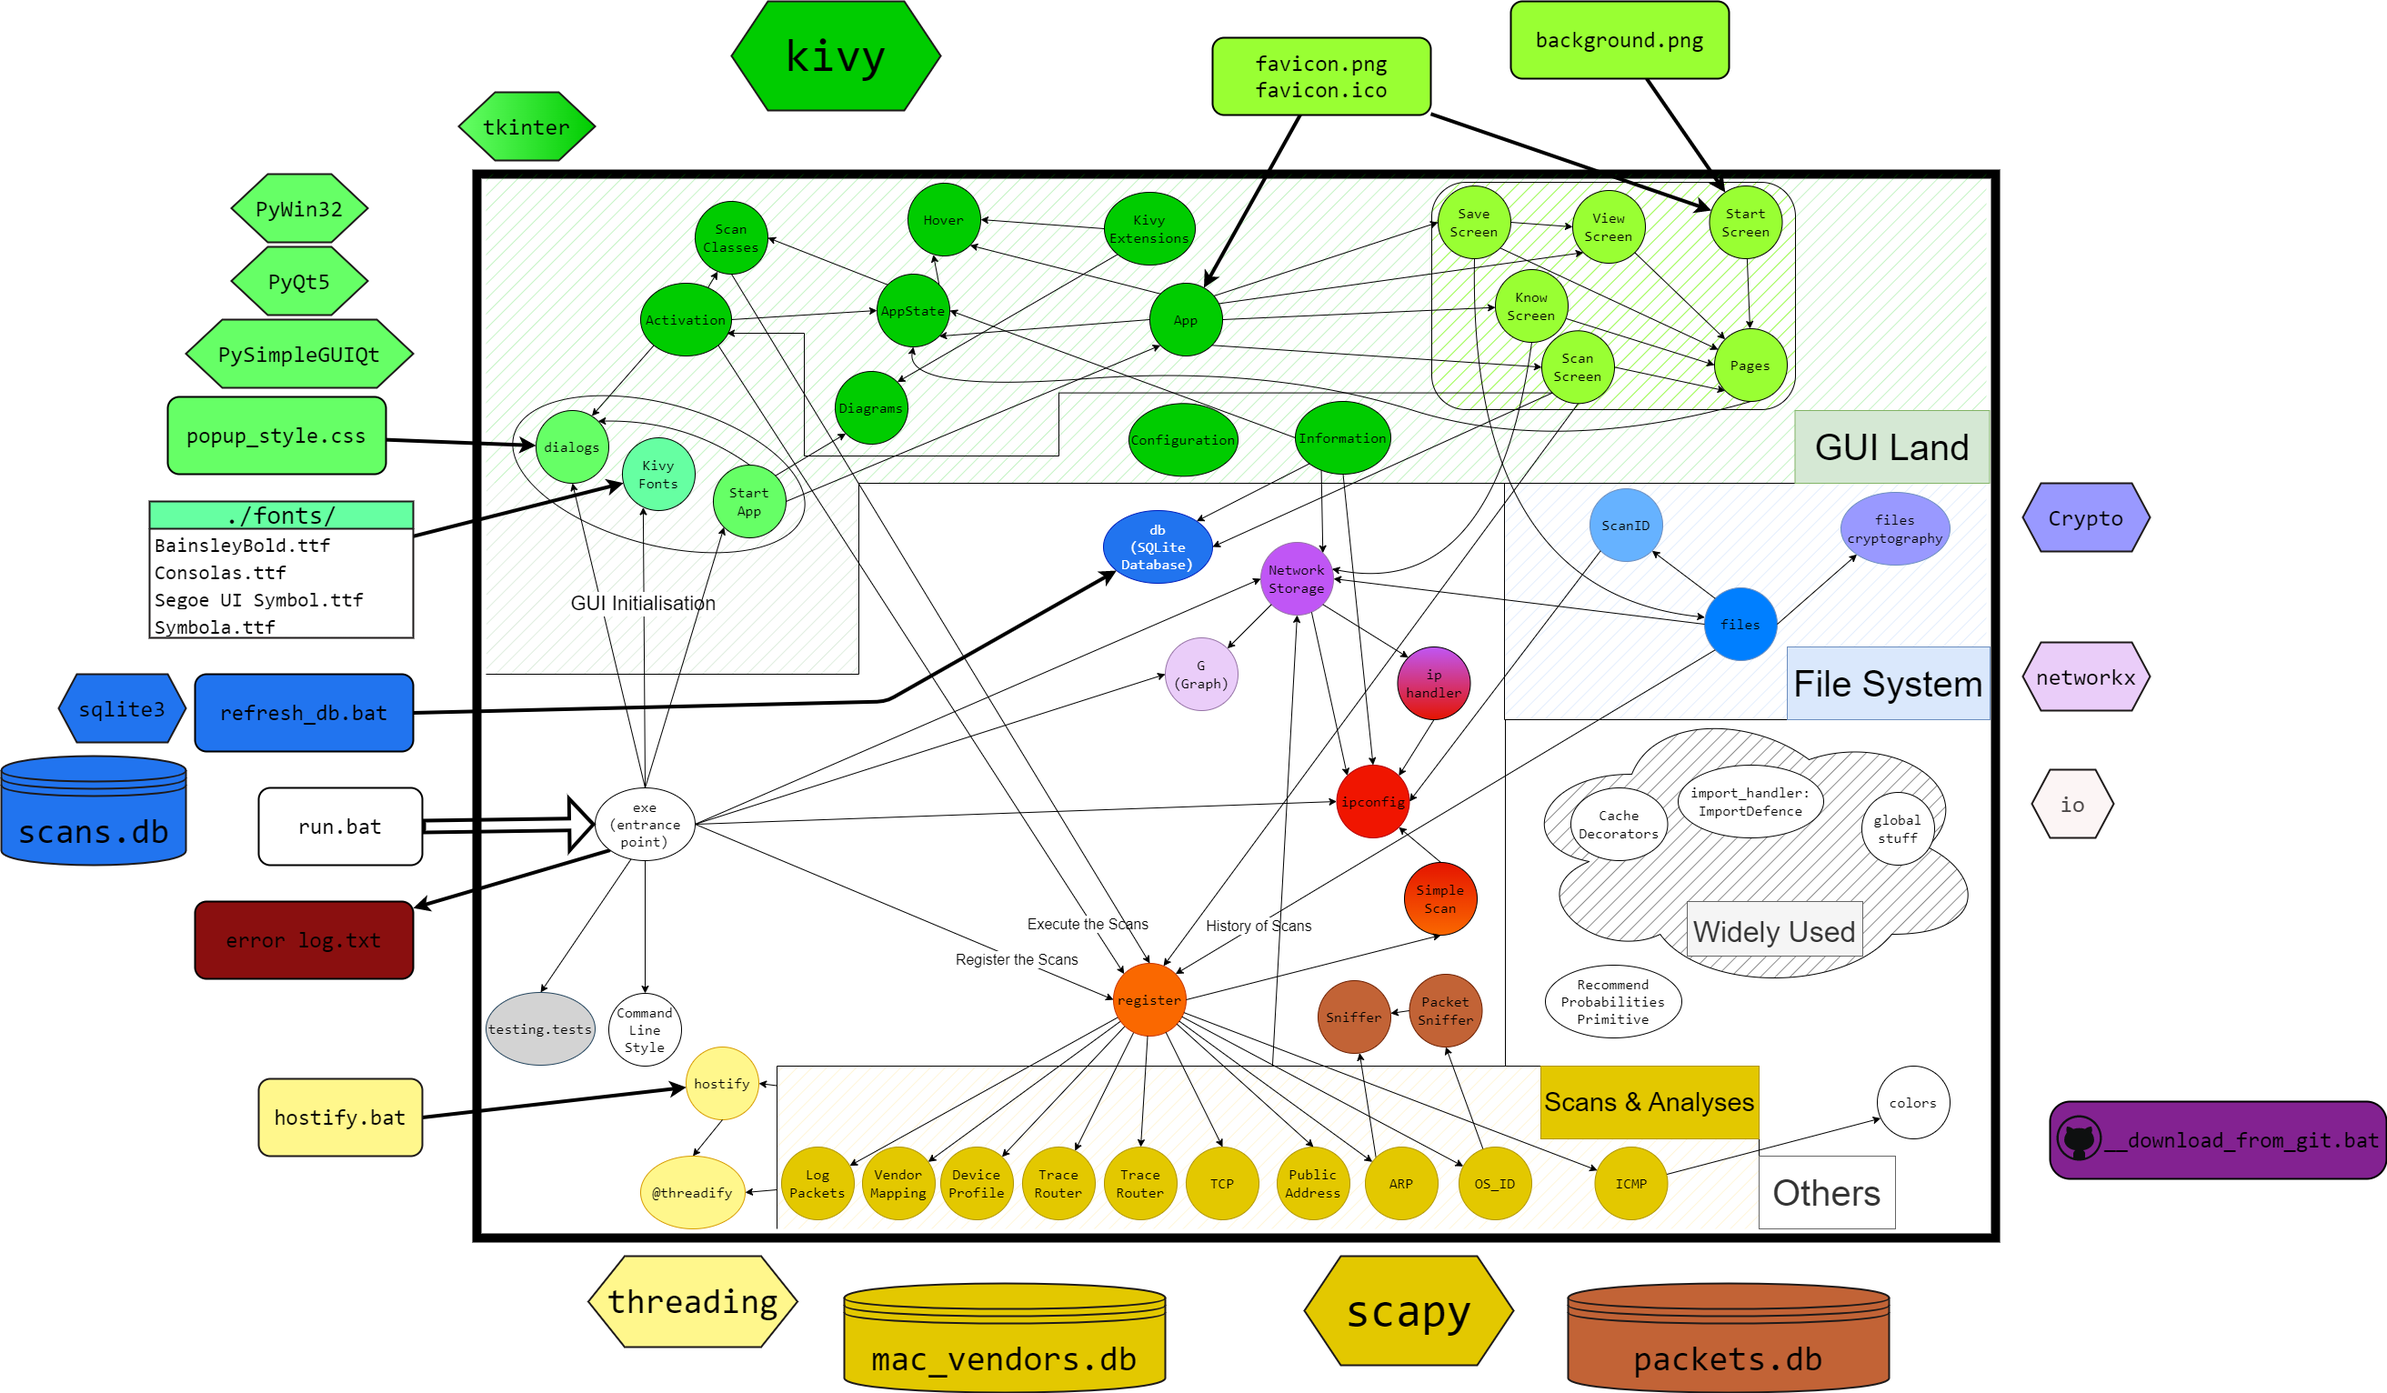
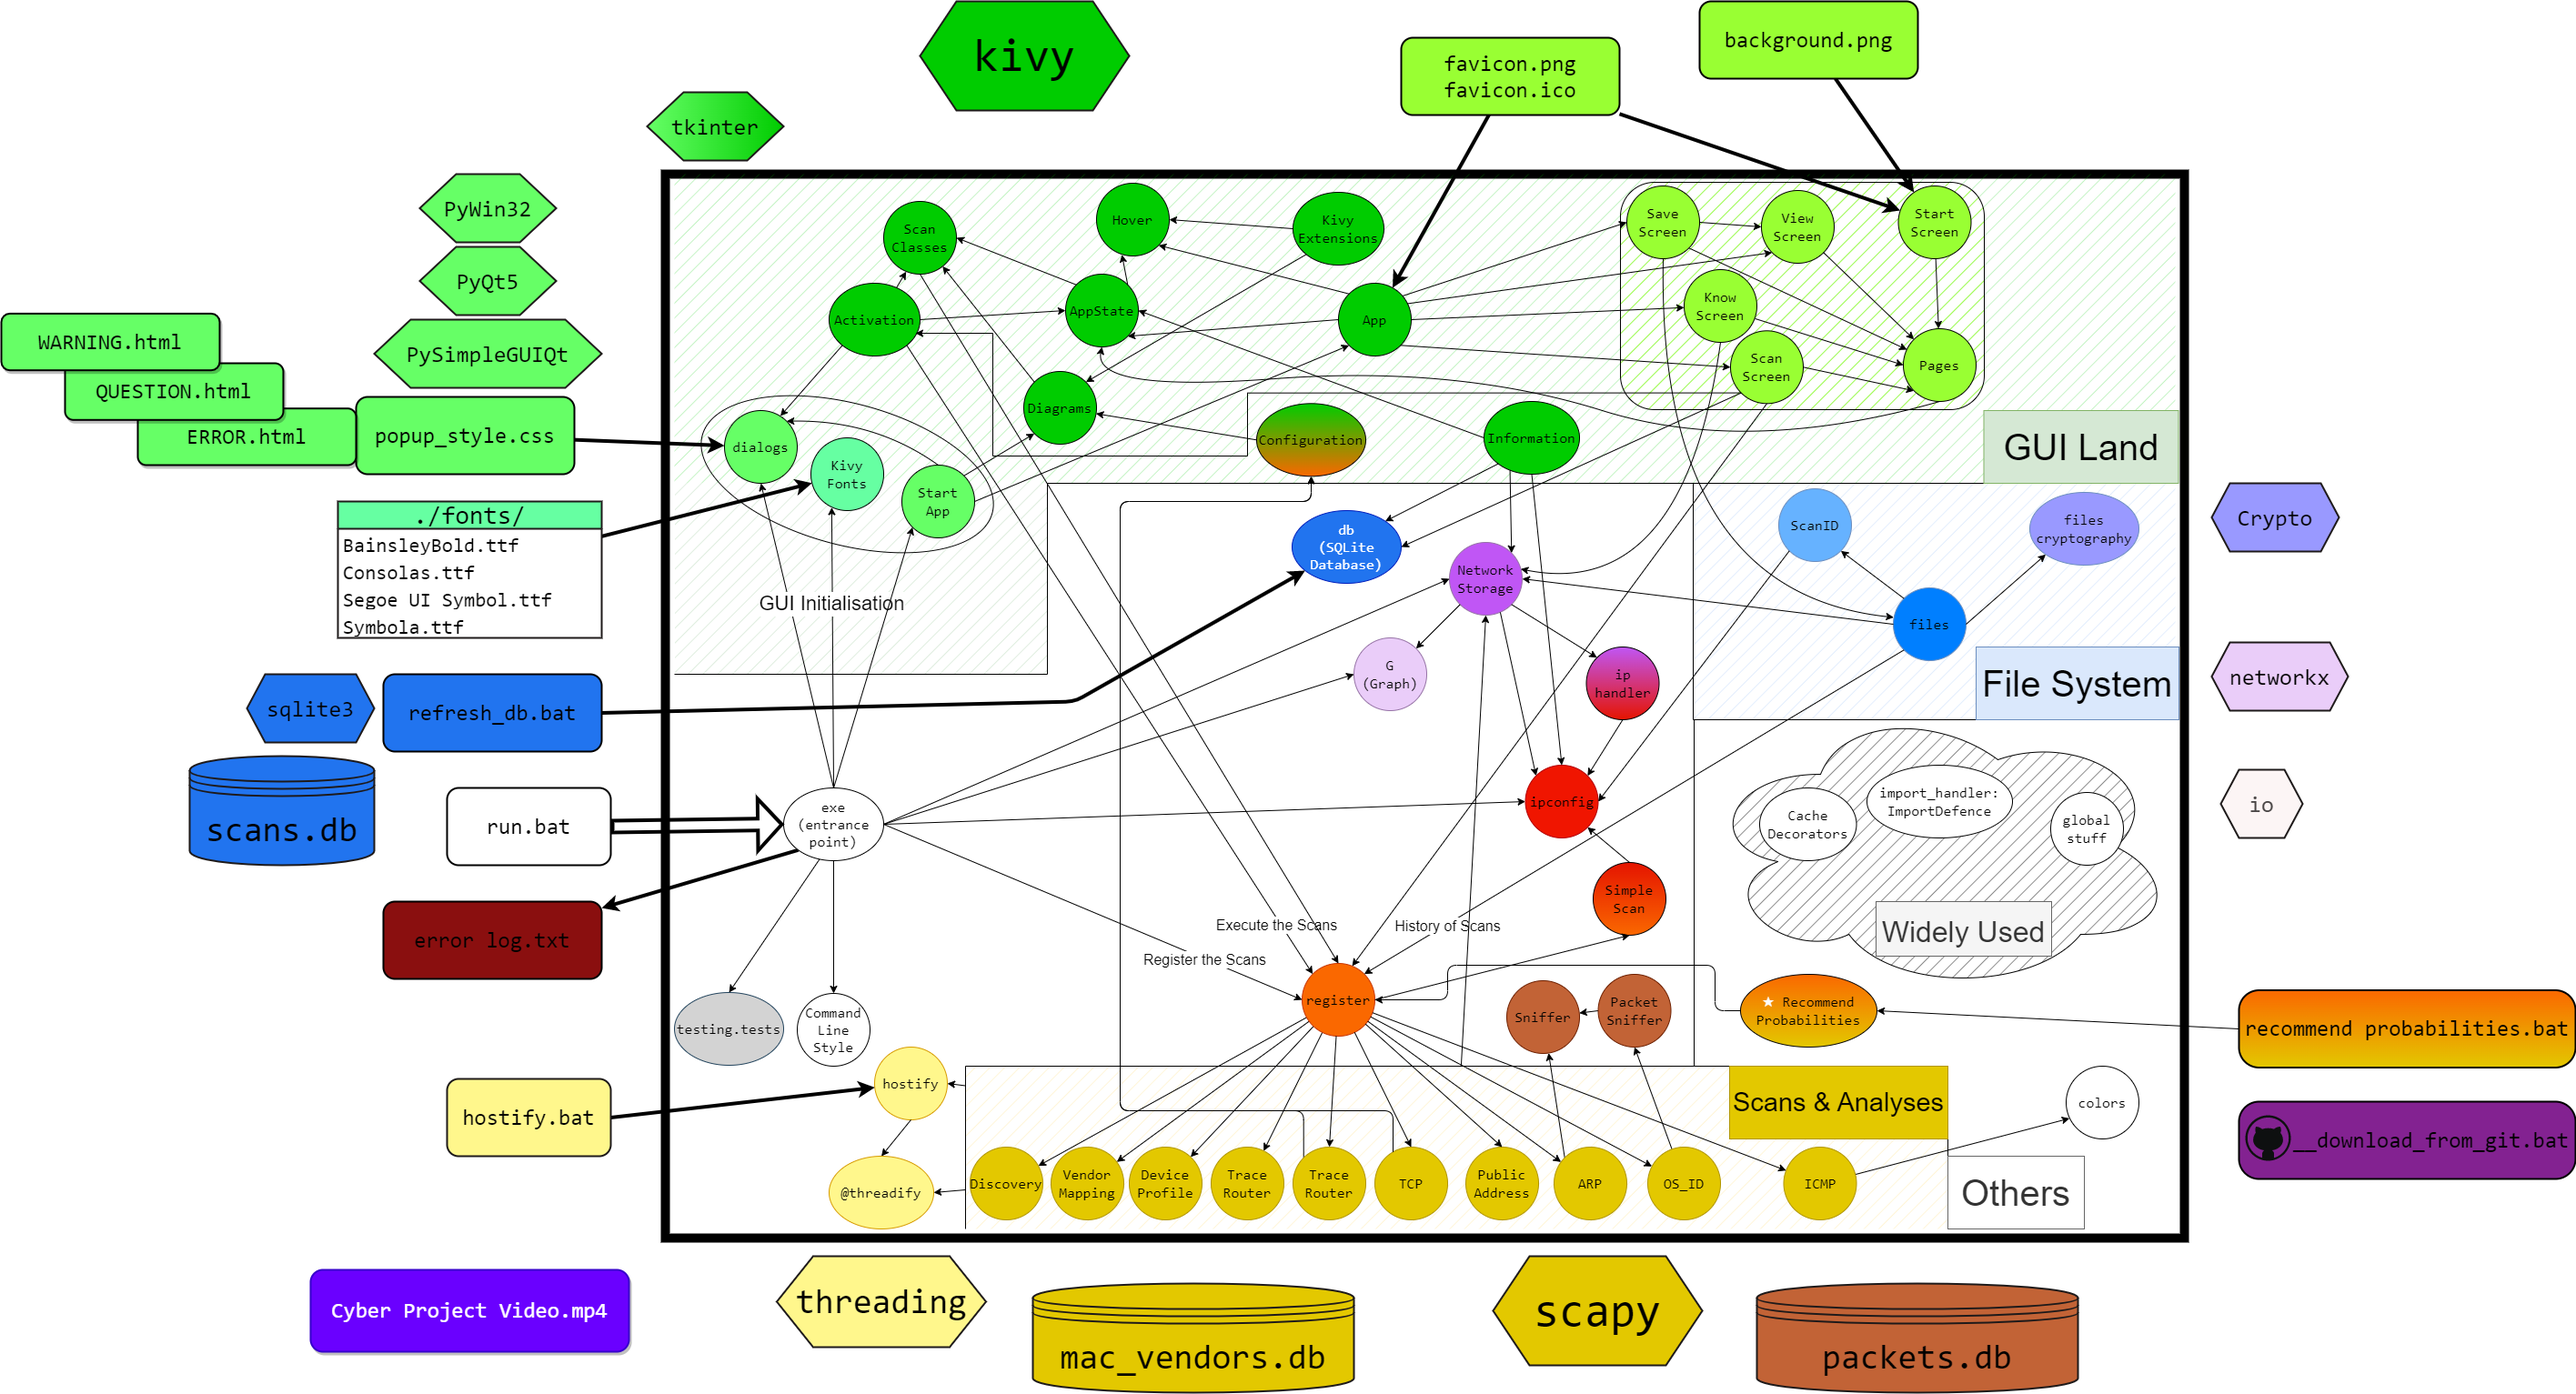
Update modules extended.drawio

diff --git a/Scanner/README.md b/Scanner/README.md
@@ -3543,3 +3543,5 @@ Gonna upload some changes now.
 [20:08] No longer recommending `Reveal Myself`.
 
 [20:17] Added `recommend probabilities.bat`.
+
+[20:29] Updated `modules extended.drawio`.
